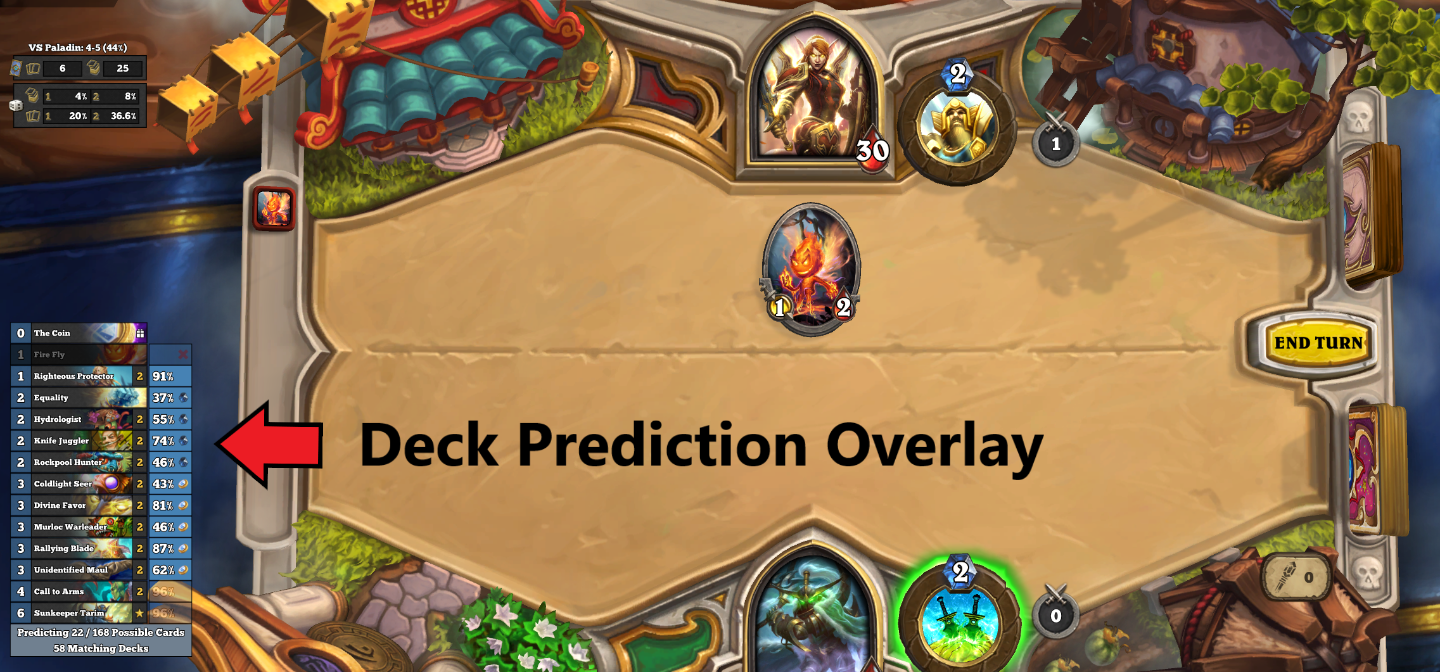
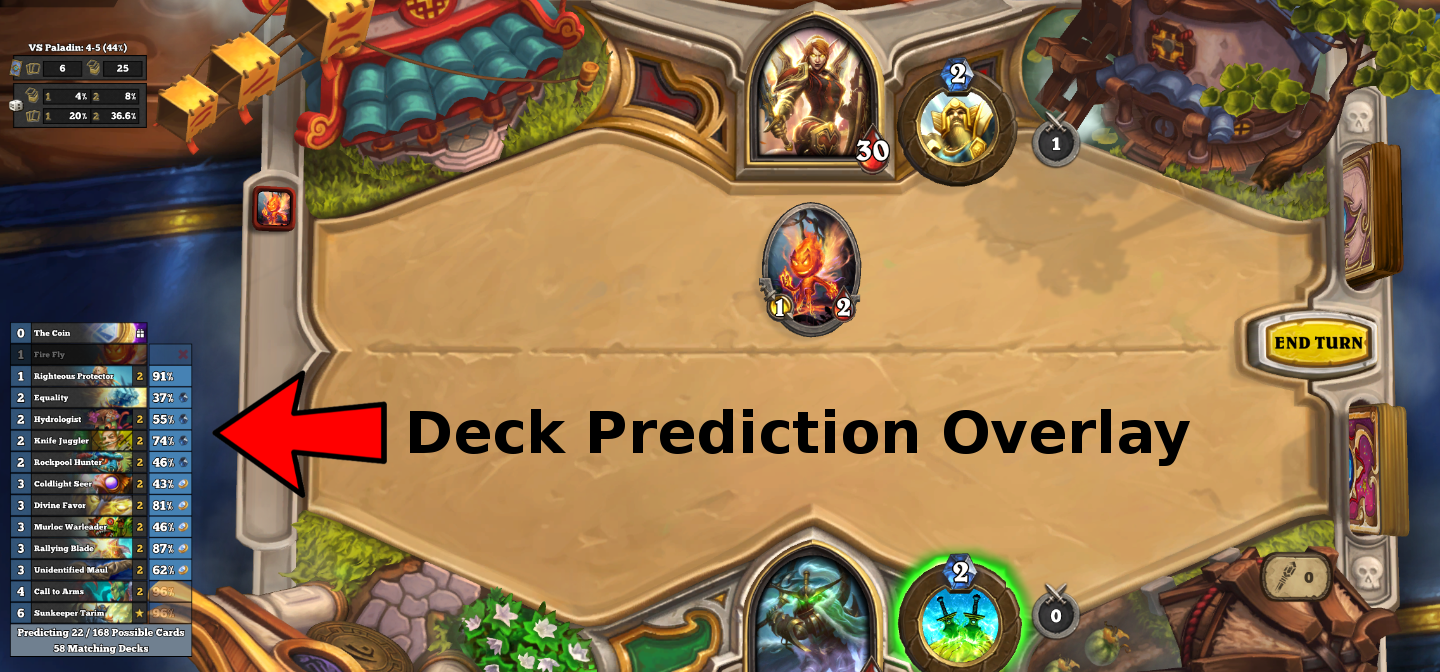
Closeup detail on README

Changed region(s): [[0.125, 0.5625, 0.8438, 0.75]]

diff --git a/README.md b/README.md
@@ -1,11 +1,14 @@
 # HDT Deck Predictor
-A Plugin for Hearthstone Deck Tracker for predicting the opponent's decklist.
+
+[![GitHub release](https://img.shields.io/badge/prerelease-0.3.0-green.svg)](https://github.com/fatheroctopus/hdt-deck-predictor/releases/latest)
+
+A Plugin for Hearthstone Deck Tracker (HDT) that predicts the opponent's decklist.
 
 ## Installation
 - [Download and install HDT](https://hsdecktracker.net/).
-- [Download the Deck Predictor Plugin](https://github.com/fatheroctopus/hdt-deck-predictor/releases).
+- [Download the Deck Predictor Plugin](https://github.com/fatheroctopus/hdt-deck-predictor/releases/latest).
 - Extract the downloaded archive to your "Plugins" directory.
-  - This location can be found from within HDT: `Options -> Tracking -> Plugins -> Plugins Folder`.
+  - This location can be found from within HDT: `Options -> Tracker -> Plugins -> Plugins Folder`.
   - Your directory structure should look like `%AppData%/HearthstoneDeckTracker/Plugins/DeckPredictor/DeckPredictor.dll`.
 - Restart HDT and enable the plugin in `Options -> Tracker -> Plugins`.
 
@@ -14,26 +17,32 @@ While enabled, DeckPredictor will replace the standard HDT opponent deck list wi
 
 ![Overlay](Images/overlay.png)
 
-- Chance that this card started in the opponent's decklist.
-- Playing this card would spend all the opponent's available mana.
-- Playing this card would be possible if the opponent used the coin.
-- This played card is an outlier in the current meta and is being ignored by the Predictor.
-- Number of predicted cards currently shown in the overlay out of all possible cards that could be in the deck
-- Number of decks in the meta that match the opponent's already-played cards.
+<div>
+<img align="right" src="Images/closeup.png" hspace="30">
+</div>
 
-All stats update in real time as the opponent plays cards.
+### Deck Prediction Details:
+- All stats update in real time as the opponent plays cards.
+- Each predicted card shows the percentage chance that this card is in the opponent's deck or hand.
+- Percentages appear faded if the opponent cannot play this card on their next turn.
+- Mana crystal icon appears next to cards that would spend all the opponent's available mana next turn.
+- Coin icon apears next to cards that are playable next turn if the opponent uses their coin.
+- X icon appears next to played cards that are outliers in the current meta. These cards are currently being ignored by the Predictor.
+- Below the decklist, the overlay enumerates how many cards it is showing out of the total number of *Possible Cards* in the opponent's deck.
+- *Matching Decks* is how many decks in the meta contain all the cards that the opponent has played.
+- Like the HDT deck tracker, the overlay will also list Played, Created, and Jousted cards.
 
 ## How It Works
 
-Deck Predictor was originally inspired by [AdnanC's MetaDetector plugin](https://github.com/AdnanC/HDT.Plugins.MetaDetector) and uses its aggregate data from [MetaStats](http://metastats.net/).
+Deck Predictor uses the same aggregate data as [AdnanC's MetaDetector plugin](https://github.com/AdnanC/HDT.Plugins.MetaDetector) from [MetaStats](http://metastats.net/).
 
 As the opponent plays cards, decks without those cards are filtered out, and each possible card is assigned a probability based on how often it appears in the list of possible decks.
 
 The overlay does not display every possible card, but shows cards based on these heuristics:
- 1. Around 30 cards should be shown.
- 2. Cards that are sufficiently likely will usually be displayed.
- 3. Cards that are playable on the opponent's next turn will often be favored over unplayable cards.
- 4. Cards that are "optimal" for the opponent's next turn will often be favored over other playable cards.
+ 1. Cards that are sufficiently likely will usually be displayed.
+ 2. Cards that are playable on the opponent's next turn will often be favored over unplayable cards.
+ 3. Cards that are "optimal" for the opponent's next turn will often be favored over other playable cards.
+ 4. Around 30 cards should be shown.
 
 The first and second copy of a card are tracked separately, but when showing both copies, the overlay will only display the probability of the first copy.
 
@@ -49,8 +58,9 @@ When a deck goes off-meta, one or more cards are deemed outliers and ignored by 
 
 ## Feedback
 I'll respond to any issues opened for bugs or feature requests.
+This is my first time working in C# and WPF, so I'm also interested in any idioms or best practices I may have missed.
+
 For problems with prediction results, please attach a screenshot of the issue and zip up the Logs directory at `%AppData%/HearthstoneDeckTracker/DeckPredictor/Logs`.
 Try to do this immediately after the game finishes.
-This is my first time working in C# and WPF, so I'm also interested in any idioms or best practices I may have missed.
 
 Check out my music on [bandcamp](https://fatheroctopus.bandcamp.com).  It's free.
